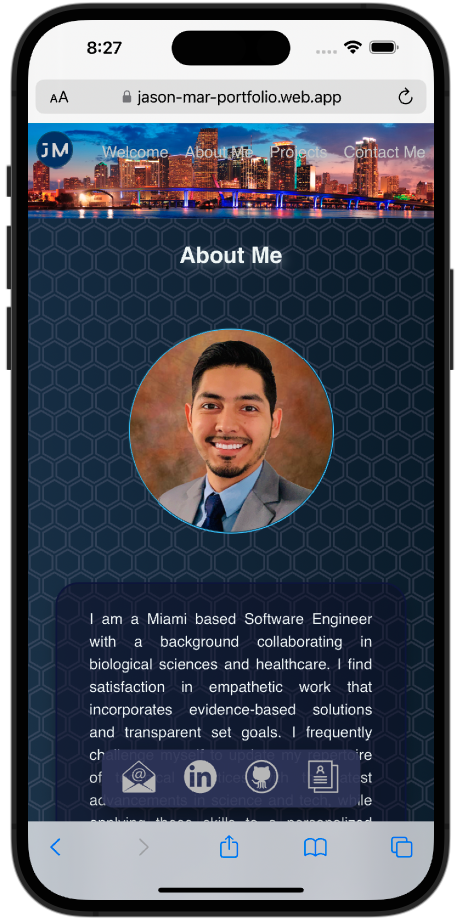
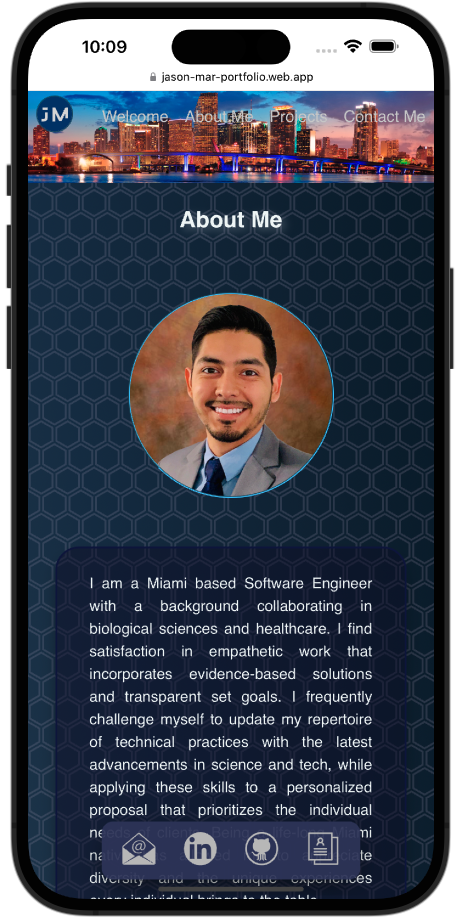
update mobile screenshot

diff --git a/my-portfolio/src/App.css b/my-portfolio/src/App.css
@@ -1044,7 +1044,6 @@ footer {
     padding: 0 0 15vh 0;
     margin: 0;
     width: 99%;
-    margin-bottom: 900px;
     /* border-bottom-left-radius: 12% 8%;
     border-bottom-right-radius: 12% 8%; */
   }
